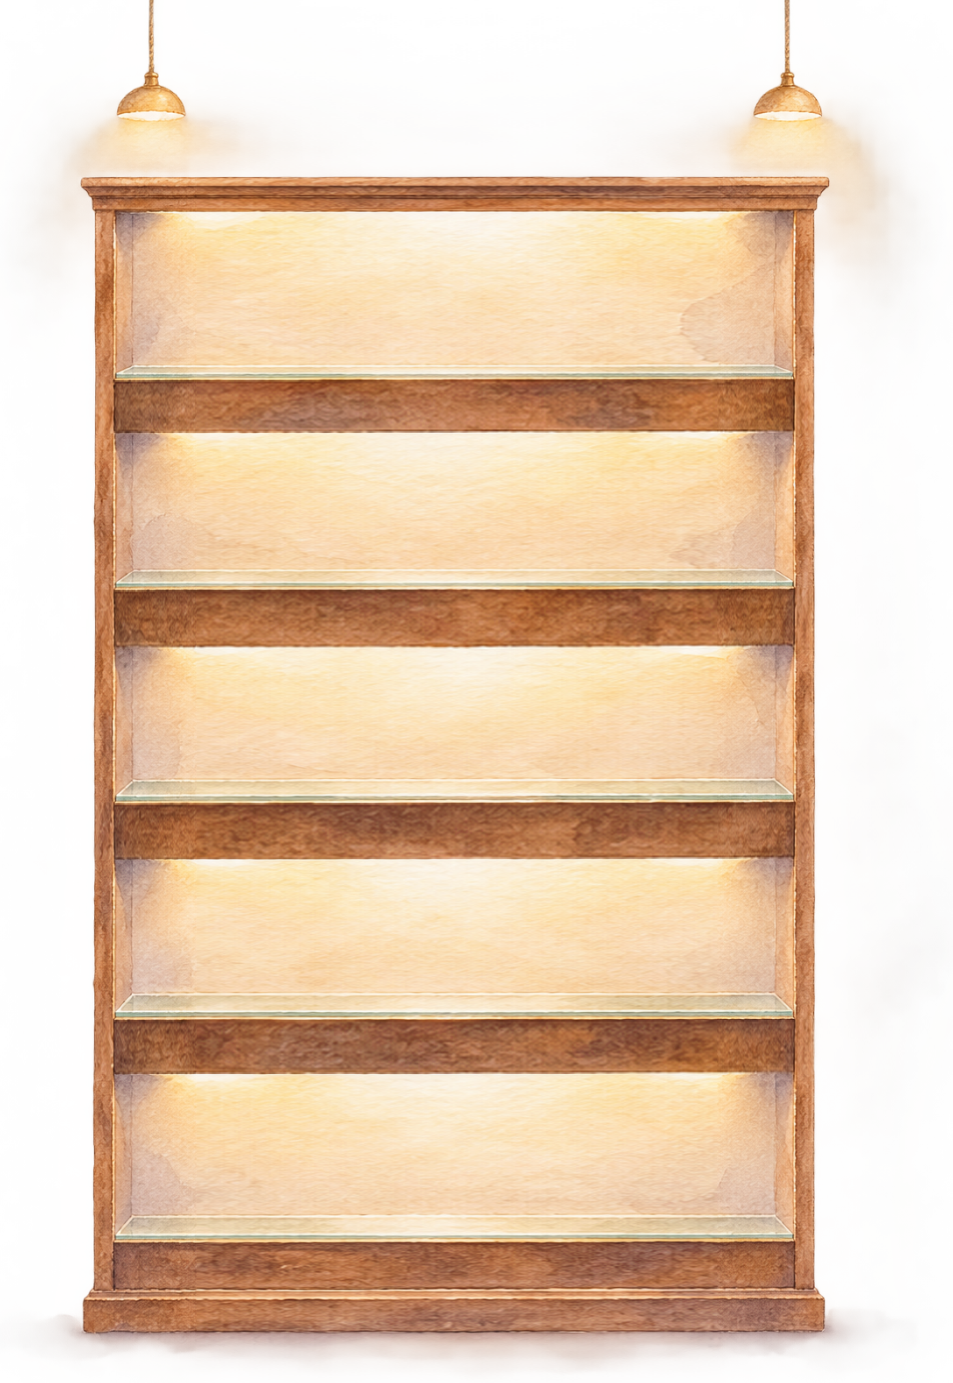
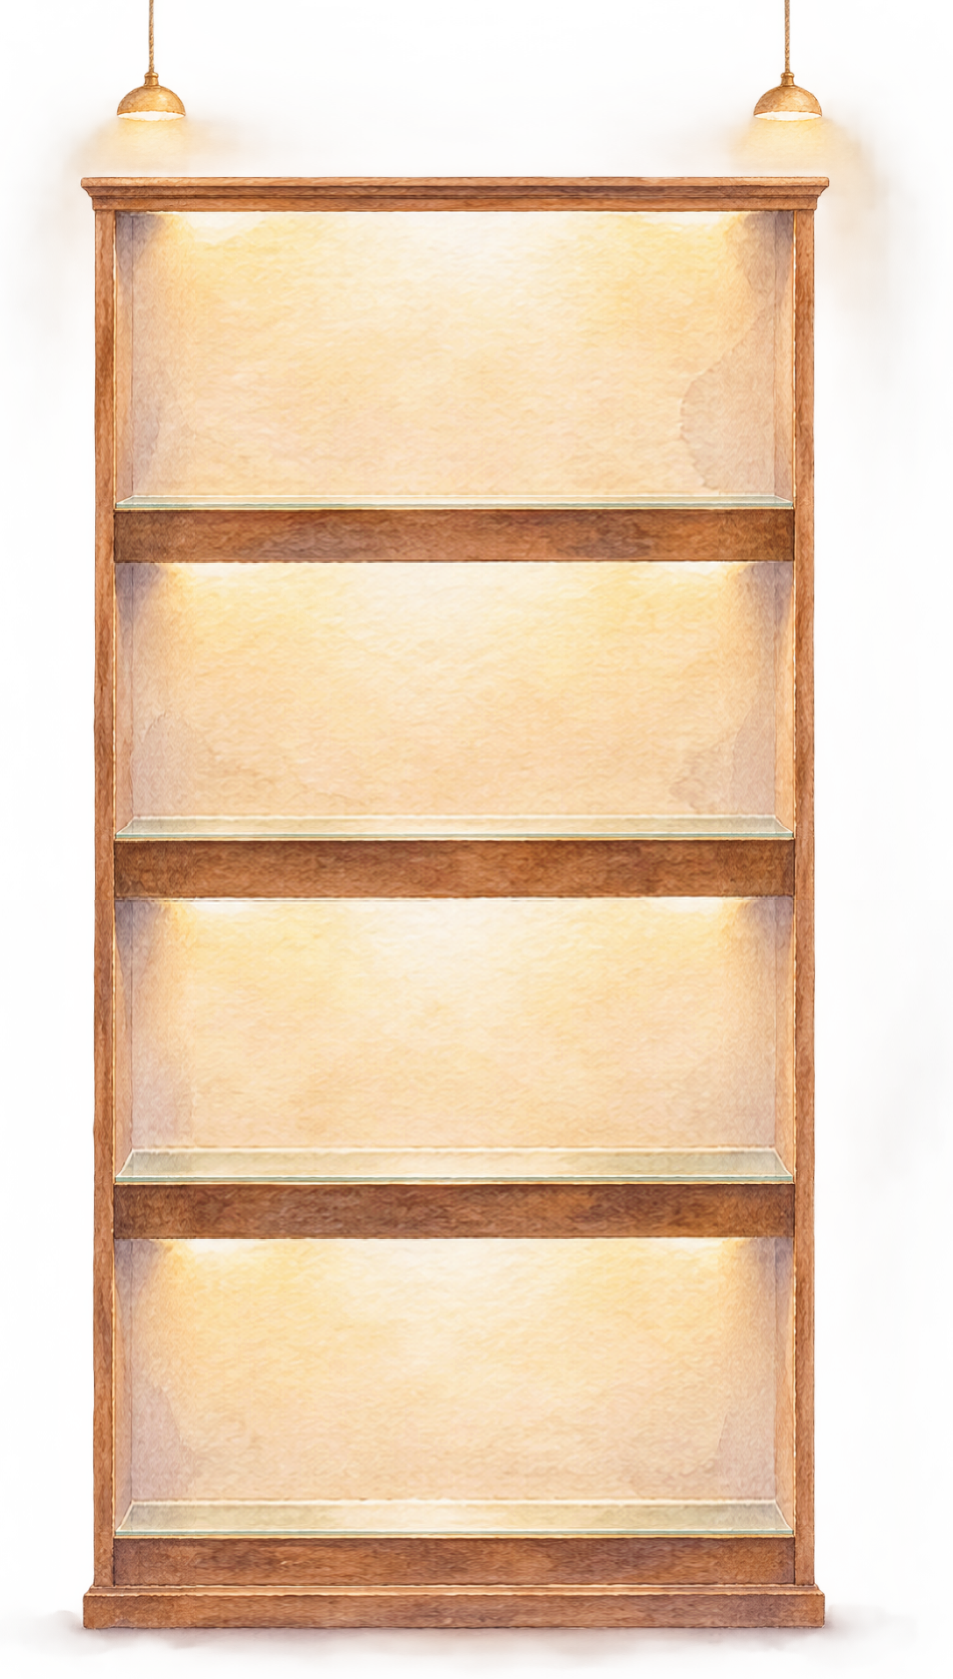
Grander cabinet: 4 taller shelves, bigger bottles, sits on the floor
- make-shelf.py drops one shelf and raises each bay 1.85x so bottles stand larger
- First unit nearly fills the screen and is aligned to the bottom

Claude-Session: https://claude.ai/code/session_016RN2Wn8vTTrbxGzFADWLmz

diff --git a/src/components/cabinet/layout.ts b/src/components/cabinet/layout.ts
@@ -2,7 +2,7 @@ import type { Bottle } from '@/store';
 
 import shelf from './shelf.json';
 
-// 장 한 채 = 수채화 진열장 그림 한 장(assets/ui/shelf.png). 3칸 × 5단, 병이 늘면 같은 장이 옆으로 이어진다.
+// 장 한 채 = 수채화 진열장 그림 한 장(assets/ui/shelf.png). 3칸 × 4단, 병이 늘면 같은 장이 옆으로 이어진다.
 // 칸 좌표는 scripts/make-shelf.py가 그림과 함께 만든 shelf.json에서 온다.
 export const COLS = 3;
 export const ROWS = shelf.bays.length;
@@ -28,15 +28,15 @@ export const BAYS = shelf.bays.map((b) => ({
   lipH: s(b.lip[1] - b.lip[0]),
 }));
 export const INNER_LEFT = INNER_L;
-/** 병 높이: 칸 높이의 78% */
-export const BOTTLE = Math.min(...BAYS.map((b) => b.floor - b.top)) * 0.78;
+/** 병 높이: 칸 높이의 84% */
+export const BOTTLE = Math.min(...BAYS.map((b) => b.floor - b.top)) * 0.84;
 
 export const GAP = 36; // 이웃한 장 기둥 사이
-export const ENTRY = 60; // 첫 장 앞 벽
+export const ENTRY = 36; // 첫 장 앞 벽
 export const TAIL = 60;
 export const ROOM_H = IMG_H + 24;
 /** 처음 화면에 들어오게 할 너비: 첫 장 전체 + 다음 장이 조금 */
-export const FIT_WIDTH = ENTRY + FRAME_W + GAP + 70;
+export const FIT_WIDTH = ENTRY + FRAME_W + GAP + 28;
 
 // 그림 양옆의 투명한 빛 번짐은 이웃 장과 겹쳐도 된다. 자리는 기둥 기준으로 잡는다.
 export const unitLeft = (index: number) => ENTRY - FRAME_L + index * (FRAME_W + GAP);

diff --git a/src/components/cabinet/useRoomView.ts b/src/components/cabinet/useRoomView.ts
@@ -29,7 +29,7 @@ export function useRoomView(roomW: number) {
   const tx = useSharedValue(0);
   const ty = useSharedValue(0);
 
-  // 방이 화면보다 작으면 가로는 가운데·세로는 위에 붙이고, 크면 가장자리 밖으로 밀려나지 않게
+  // 방이 화면보다 작으면 가로는 가운데·세로는 바닥에 붙이고, 크면 가장자리 밖으로 밀려나지 않게
   const boundX = (x: number, z: number) => {
     'worklet';
     const w = roomW * fit * z;
@@ -38,7 +38,7 @@ export function useRoomView(roomW: number) {
   const boundY = (y: number, z: number) => {
     'worklet';
     const h = ROOM_H * fit * z;
-    return h <= viewH ? 0 : Math.min(0, Math.max(viewH - h, y));
+    return h <= viewH ? viewH - h : Math.min(0, Math.max(viewH - h, y));
   };
   const stop = () => {
     'worklet';

diff --git a/scripts/make-shelf.py b/scripts/make-shelf.py
@@ -1,40 +1,41 @@
-"""수채화 진열장(design/source/shelf.png)을 넓혀 assets/ui/shelf.png와 칸 좌표(src/components/cabinet/shelf.json)를 만든다.
+"""수채화 진열장(design/source/shelf.png)을 다시 짜서 assets/ui/shelf.png와 칸 좌표(src/components/cabinet/shelf.json)를 만든다.
 
 - 가로: 양쪽 기둥과 조명은 그대로 두고 가운데 안쪽만 늘린다(선반·유리·원목 띠가 가로 띠라 늘려도 자연스럽다).
-- 세로: 선반 아래 원목 띠(메모지 붙이는 자리)만 두껍게 한다.
+- 세로: 원본 5단 중 일부 단을 빼고, 남은 칸 안쪽을 높여 병이 크게 서게 한다. 원목 띠(메모지 자리)는 두껍게 한다.
 - 원본 좌표는 1064×1346 원본 기준으로 잰 값이다.
 
-실행: python3 scripts/make-shelf.py [가로 배율=1.6] [원목 띠 배율=1.6]
+실행: python3 scripts/make-shelf.py
 """
 
 import json
-import sys
 from pathlib import Path
 
-import numpy as np
 from PIL import Image
 
 ROOT = Path(__file__).resolve().parent.parent
 SRC = ROOT / 'design/source/shelf.png'
 
-WIDEN = float(sys.argv[1]) if len(sys.argv) > 1 else 1.6
-LIP_SCALE = float(sys.argv[2]) if len(sys.argv) > 2 else 1.6
+WIDEN = 1.6  # 가로 배율 (기둥 바깥 너비 기준)
+KEEP_BAYS = [0, 1, 3, 4]  # 원본 5단 중 남길 단 (위에서부터 0)
+BAY_SCALE = 1.85  # 칸 안쪽 높이 배율
+LIP_SCALE = 1.6  # 원목 띠 두께 배율
+GLASS = 14  # 유리 선반 두께(px) — 늘리지 않는다
 
 # 원본에서 잰 좌표
 CROP = (133, 0, 806, 1300)  # 번지는 빛까지 포함한 범위
 FRAME_X = (214, 681)  # 바깥 기둥
 INNER_X = (250, 647)  # 칸 안쪽
 SPLIT_X = (330, 570)  # 이 사이(조명보다 안쪽)만 늘린다
-BAYS = [(212, 379), (413, 569), (607, 760), (796, 956), (991, 1159)]  # 칸: 위(조명) ~ 유리 윗면
-LIPS = [(380, 412), (570, 606), (761, 795), (957, 990)]  # 유리 아래 원목 띠
-BASE = (1160, 1250)
+HEAD = 212  # 장 윗판 아래 끝 = 첫 칸 시작
+BAY_FLOORS = [379, 569, 760, 956, 1159]  # 각 단 유리 윗면
+LIP_BOTTOMS = [412, 606, 795, 990]  # 각 단 아래 원목 띠 끝 (마지막 단은 받침대)
+BASE_END = 1250
 
 
-def stretch_x(img: Image.Image) -> tuple[Image.Image, callable]:
+def stretch_x(img: Image.Image):
     a, b = SPLIT_X[0] - CROP[0], SPLIT_X[1] - CROP[0]
     w, h = img.size
-    frame_w = FRAME_X[1] - FRAME_X[0]
-    extra = round(frame_w * (WIDEN - 1))
+    extra = round((FRAME_X[1] - FRAME_X[0]) * (WIDEN - 1))
     mid = img.crop((a, 0, b, h)).resize((b - a + extra, h), Image.LANCZOS)
     out = Image.new('RGBA', (w + extra, h))
     out.paste(img.crop((0, 0, a, h)), (0, 0))
@@ -52,43 +53,62 @@ def stretch_x(img: Image.Image) -> tuple[Image.Image, callable]:
     return out, mx
 
 
-def stretch_y(img: Image.Image) -> tuple[Image.Image, callable]:
-    w, h = img.size
-    pieces, cursor, marks = [], 0, []
-    for top, bottom in LIPS:
-        pieces.append(img.crop((0, cursor, w, top)))
-        lip = img.crop((0, top, w, bottom + 1))
-        pieces.append(lip.resize((w, round(lip.height * LIP_SCALE)), Image.LANCZOS))
-        marks.append((top, bottom + 1, round(lip.height * LIP_SCALE)))
-        cursor = bottom + 1
-    pieces.append(img.crop((0, cursor, w, h)))
-    out = Image.new('RGBA', (w, sum(p.height for p in pieces)))
-    y = 0
+def vertical_plan():
+    """원본 세로 구간 목록: (시작, 끝, 배율, 이름). 배율 0인 구간은 뺀다."""
+    plan = [(0, HEAD, 1.0, 'head')]
+    top = HEAD
+    for i, floor in enumerate(BAY_FLOORS):
+        keep = i in KEEP_BAYS
+        lip_end = LIP_BOTTOMS[i] + 1 if i < len(LIP_BOTTOMS) else None
+        plan.append((top, floor - GLASS, BAY_SCALE if keep else 0, f'bay{i}'))
+        plan.append((floor - GLASS, floor + 1, 1.0 if keep else 0, f'glass{i}'))
+        if lip_end is not None:
+            plan.append((floor + 1, lip_end, LIP_SCALE if keep else 0, f'lip{i}'))
+            top = lip_end
+    plan.append((BAY_FLOORS[-1] + 1, CROP[3], 1.0, 'base'))
+    return plan
+
+
+def stretch_y(img: Image.Image):
+    w = img.width
+    pieces, where, y = [], {}, 0
+    for start, end, scale, name in vertical_plan():
+        if scale == 0:
+            continue
+        piece = img.crop((0, start, w, end))
+        new_h = round((end - start) * scale)
+        if new_h != piece.height:
+            piece = piece.resize((w, new_h), Image.LANCZOS)
+        pieces.append(piece)
+        where[name] = (y, y + new_h)
+        y += new_h
+    out = Image.new('RGBA', (w, y))
+    cursor = 0
     for p in pieces:
-        out.paste(p, (0, y))
-        y += p.height
-
-    def my(v: float) -> float:
-        shift = 0.0
-        for top, bottom, new_h in marks:
-            if v >= bottom:
-                shift += new_h - (bottom - top)
-            elif v > top:
-                return v + shift + (v - top) * (new_h / (bottom - top) - 1)
-        return v + shift
-
-    return out, my
+        out.paste(p, (0, cursor))
+        cursor += p.height
+    return out, where
 
 
 def main() -> None:
     img = Image.open(SRC).convert('RGBA').crop(CROP)
     img, mx = stretch_x(img)
-    img, my = stretch_y(img)
+    img, where = stretch_y(img)
     W, H = img.size
 
     out = ROOT / 'assets/ui/shelf.png'
     out.parent.mkdir(parents=True, exist_ok=True)
     img.save(out, optimize=True)
+
+    bays = []
+    for n, i in enumerate(KEEP_BAYS):
+        top, glass_top = where[f'bay{i}']
+        if f'lip{i}' in where:
+            lip = list(where[f'lip{i}'])
+        else:  # 맨 아래 단은 받침대 윗부분에 메모지를 붙인다
+            base = where['base'][0]
+            lip = [base, base + round(46 * LIP_SCALE)]
+        bays.append({'top': top, 'floor': glass_top + GLASS - 6, 'lip': lip})
 
     r = lambda v: round(v, 1)
     geo = {
@@ -96,19 +116,11 @@ def main() -> None:
         'height': H,
         'frame': [r(mx(FRAME_X[0])), r(mx(FRAME_X[1]))],
         'inner': [r(mx(INNER_X[0])), r(mx(INNER_X[1]))],
-        # 칸마다: top(칸 위) · floor(유리 윗면, 병이 서는 선) · lip(원목 띠 위·아래)
-        'bays': [
-            {
-                'top': r(my(t)),
-                'floor': r(my(f - 6)),
-                'lip': [r(my(LIPS[i][0])), r(my(LIPS[i][1] + 1))] if i < len(LIPS) else [r(my(BASE[0])), r(my(BASE[0] + 46))],
-            }
-            for i, (t, f) in enumerate(BAYS)
-        ],
+        # 칸마다: top(칸 위) · floor(유리 윗면, 병이 서는 선) · lip(메모지 붙이는 원목 띠 위·아래)
+        'bays': bays,
     }
     (ROOT / 'src/components/cabinet/shelf.json').write_text(json.dumps(geo, indent=2) + '\n')
-    print(out, W, H)
-    print(json.dumps(geo))
+    print(out, W, H, 'frame aspect', round((geo['frame'][1] - geo['frame'][0]) / (where['base'][1] - 177), 2))
 
 
 if __name__ == '__main__':
